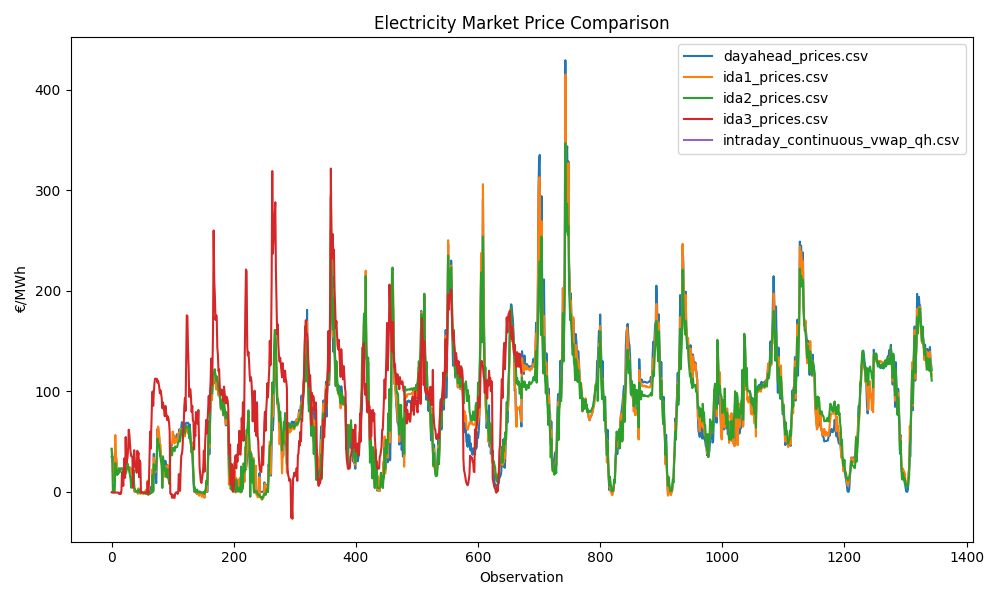
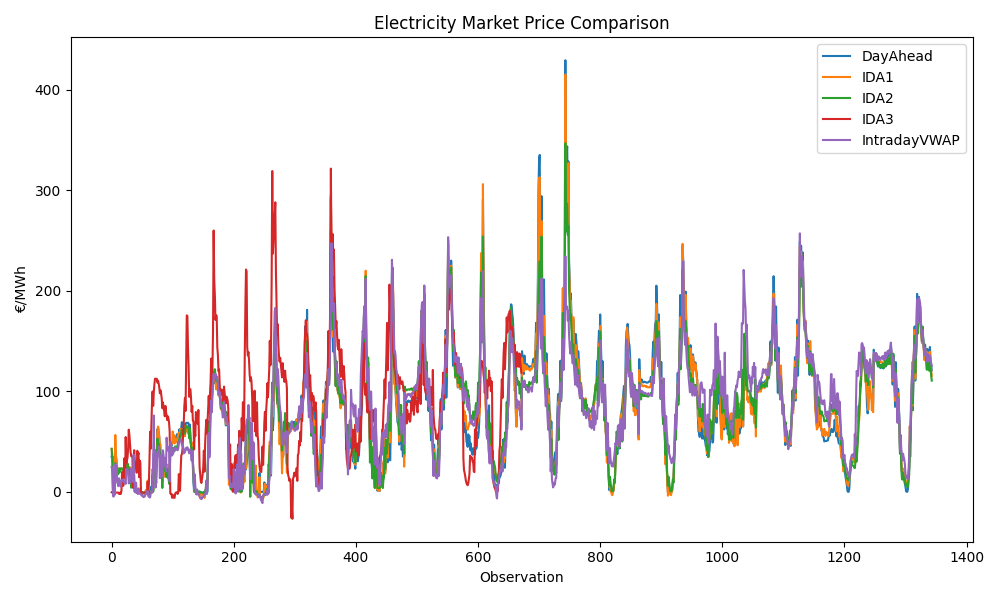
Update analysis outputs

Changed region(s): [[0.093, 0.42, 0.93, 0.84], [0.682, 0.06, 0.961, 0.27]]

diff --git a/reports/daily_report.md b/reports/daily_report.md
@@ -4,7 +4,16 @@
 5
 
 ## Highest average price
-ida3_prices.csv — 83.66 €/MWh
+IntradayVWAP — 84.47 €/MWh
 
 ## Largest spread
-dayahead_prices.csv — 430.39 €/MWh
+DayAhead — 430.39 €/MWh
+
+## Biggest yesterday-vs-today move
+IDA3 — -21.89 €/MWh (-20.11%)
+
+## 7-day anomalies
+No strong anomalies detected (> 2 rolling std).
+
+## Best arbitrage setup
+DayAhead_to_IntradayVWAP — average profit 2.74 €/MWh
